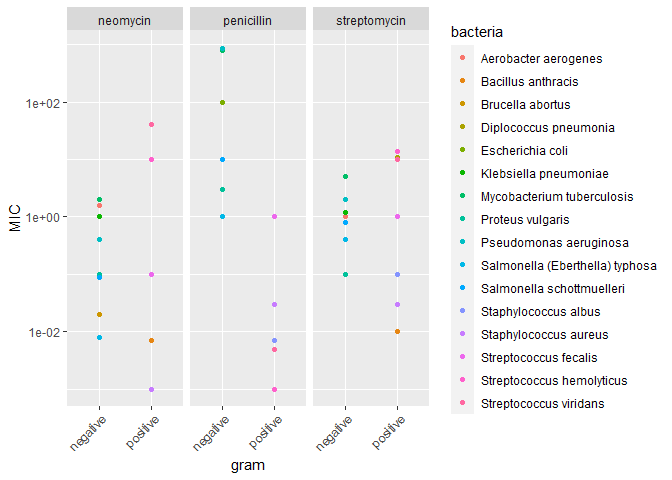
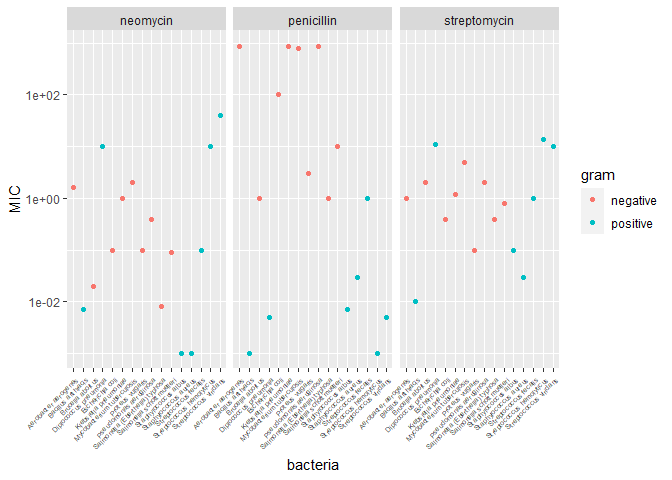
add second round of graphs

diff --git a/challenges/c05-antibiotics-assignment.md b/challenges/c05-antibiotics-assignment.md
@@ -256,7 +256,6 @@ df_antibiotics %>%
   ) %>% 
   mutate(MIC = as.double(MIC)) %>% 
   
-  group_by(bacteria) %>% 
   ggplot(aes(antibiotic, MIC)) +
   geom_boxplot() +
   scale_y_log10() +
@@ -284,12 +283,11 @@ df_antibiotics %>%
   ) %>% 
   mutate(MIC = as.double(MIC)) %>% 
   
-  group_by(antibiotic) %>% 
-  ggplot(aes(gram, MIC)) +
-  geom_point(aes(color = bacteria)) +
-  scale_y_log10() +
+  ggplot(aes(bacteria, MIC, color = gram)) +
+  geom_point() +
   facet_wrap(~ antibiotic) +
-  theme(axis.text.x = element_text(angle = 45, vjust = 1, hjust=1))
+  scale_y_log10() +
+  theme(axis.text.x = element_text(angle = 45, vjust = 1, hjust=1, size = 5))
 ```
 
 ![](c05-antibiotics-assignment_files/figure-gfm/q1.5-1.png)<!-- -->
